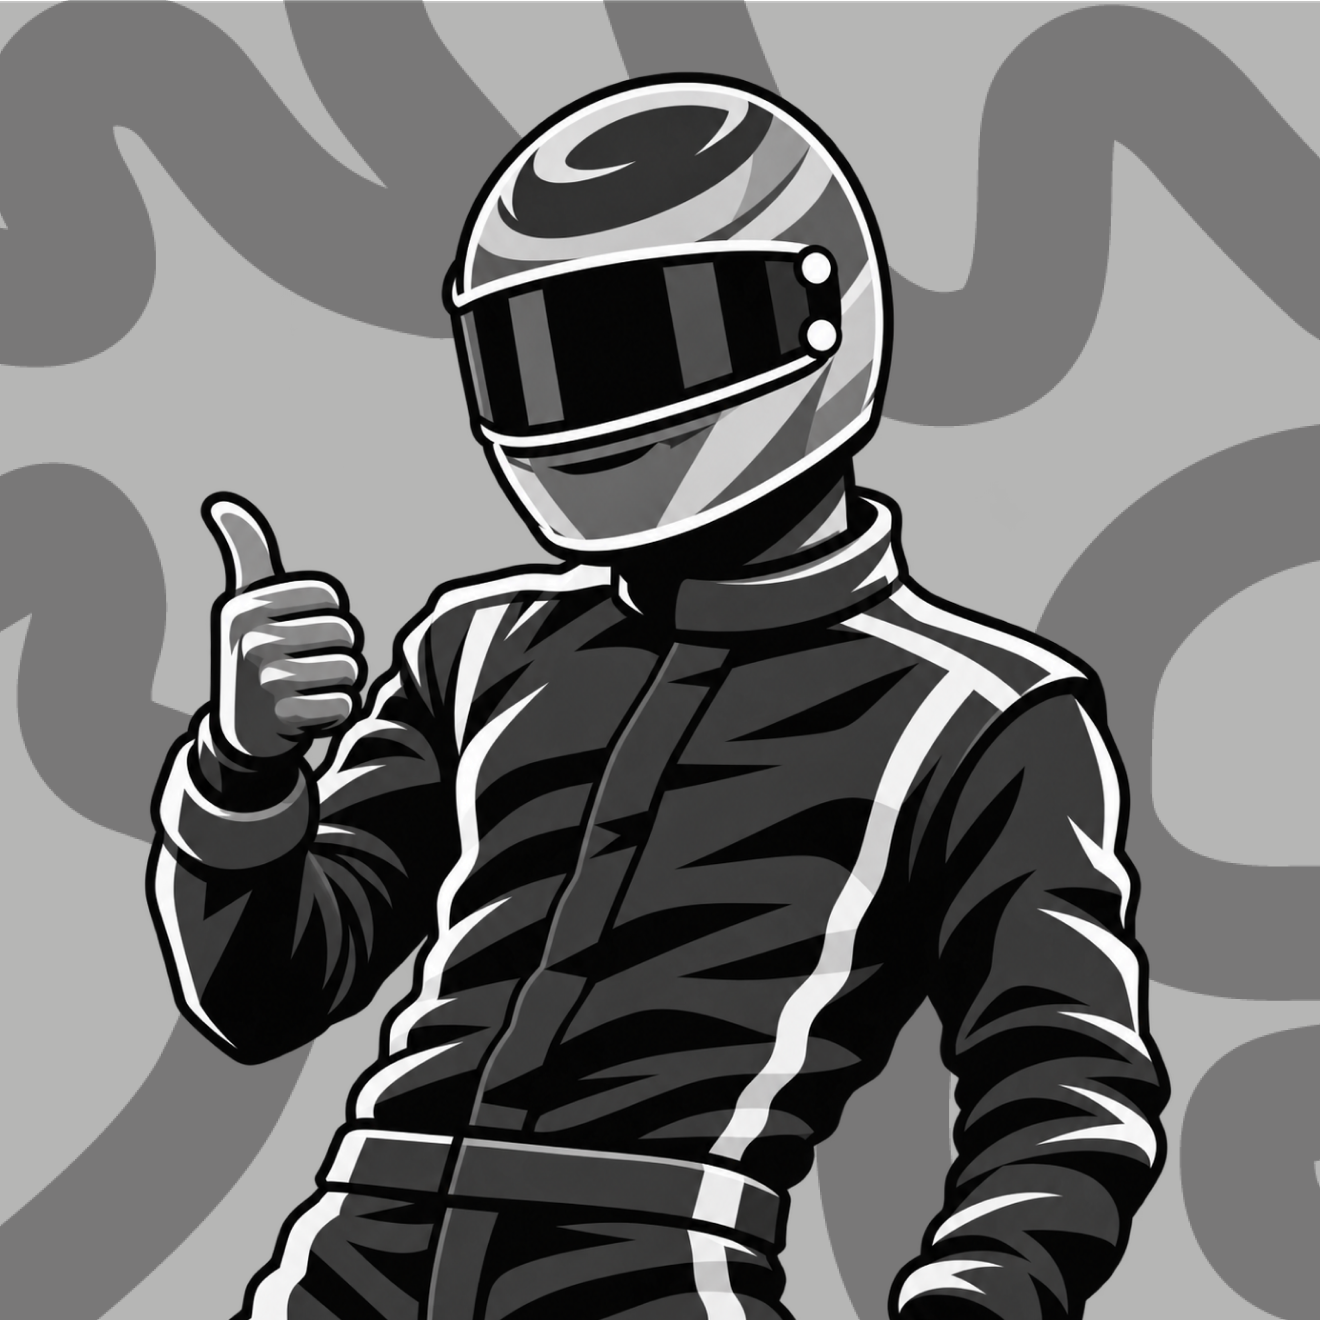
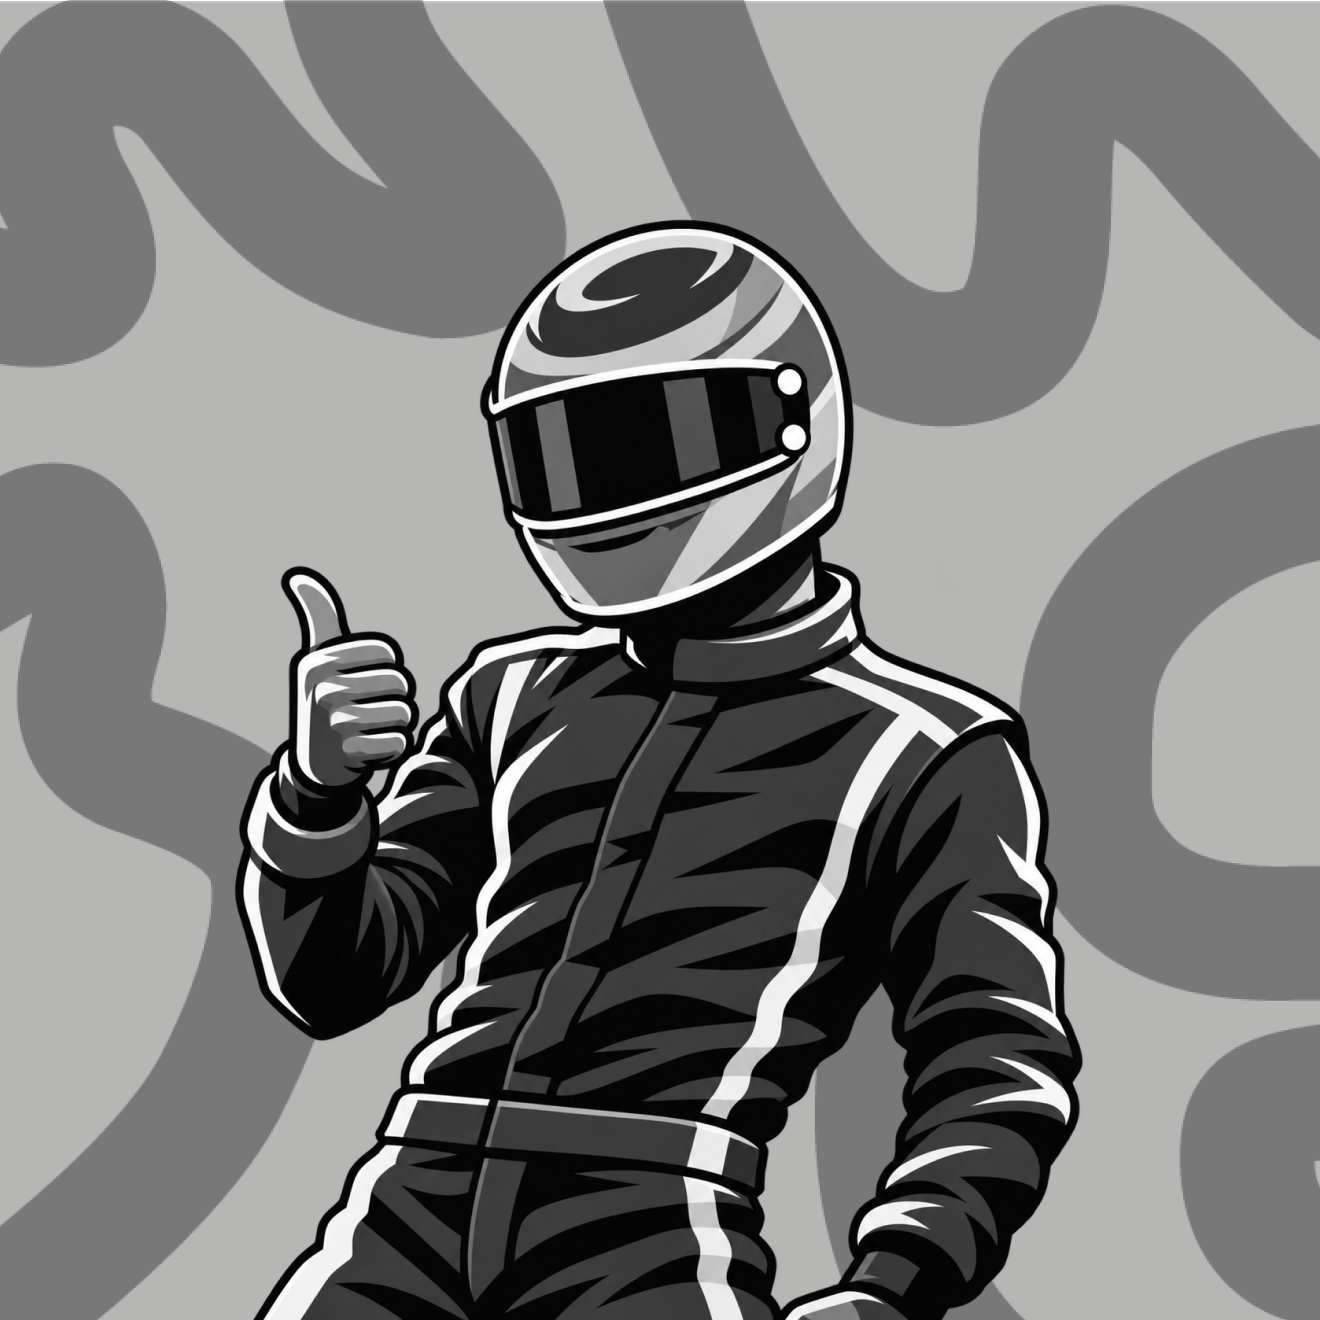
Podio de usuarios: nuevas ilustraciones de 2º y 3º

diff --git a/front/src/lab/data/changelog.js b/front/src/lab/data/changelog.js
@@ -9,6 +9,12 @@
 // corta: fecha, título, 2-3 líneas de qué cambió y por qué.
 export const DESIGN_CHANGELOG = [
   {
+    date: "2026-11-20",
+    title: "Podio de usuarios: nuevas ilustraciones de 2º y 3º",
+    summary:
+      "Se reemplazan las ilustraciones del 2º (plateado) y el 3º (bronce) del podio de Ranking global, por GP y Home por una versión con el piloto más centrado. El 1º no cambia.",
+  },
+  {
     date: "2026-11-19",
     title: "Constructores: tramas nuevas de fondo",
     summary:

diff --git a/rules/registro-de-cambios.md b/rules/registro-de-cambios.md
@@ -2,6 +2,11 @@
 
 Orden cronológico inverso (lo más nuevo arriba).
 
+## 2026-11-20 · Podio de usuarios: nuevas ilustraciones de 2º y 3º
+
+- `assets/podium/pos2.png` y `pos3.png` reemplazadas por una versión con el
+  piloto más centrado y más grande. `pos1.png` no cambia. Sin cambios de código.
+
 ## 2026-11-19 · Constructores: tramas nuevas de fondo
 
 - `assets/podium/team-pos1.png`, `team-pos2.png` y `team-pos3.png` (podio de
